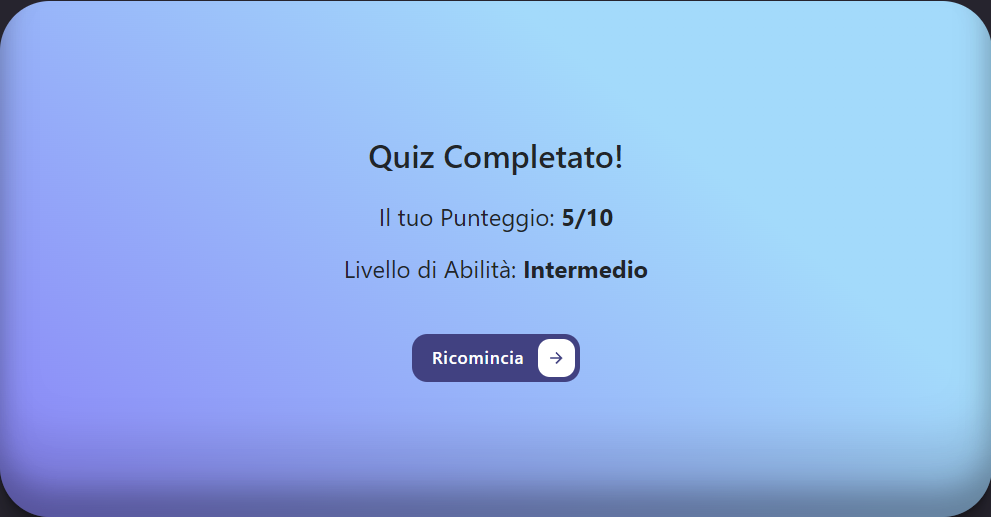
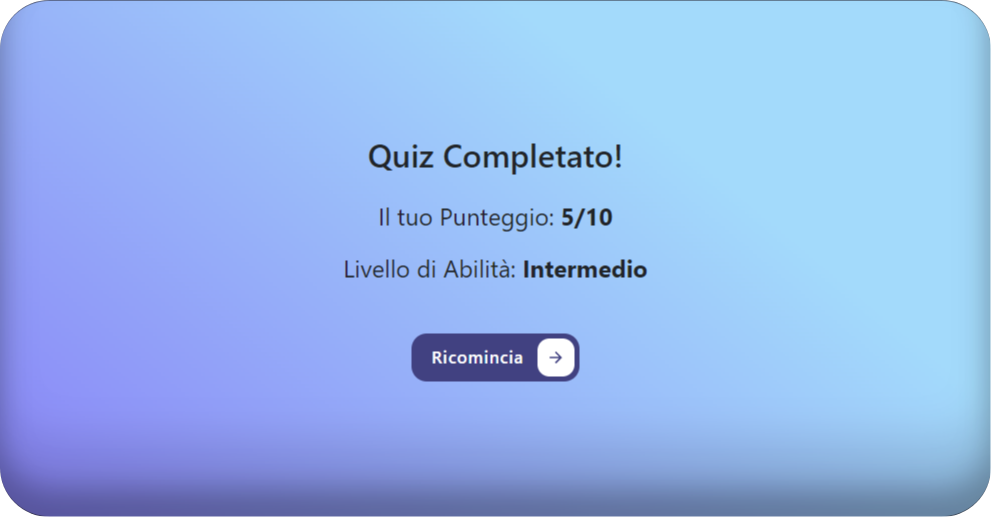
Update README.md image

diff --git a/README.md b/README.md
@@ -8,13 +8,13 @@ Dopo aver completato il quiz, viene fornito un feedback istantaneo sul punteggio
 ### [Presentazione]()
 
 <div align="center">
-  <img width="75%" style="border-radius: 35px; margin-bottom: 10px;" src="./github/image/start-quiz.png">
+  <img width="75%" src="./github/image/start-quiz.png">
 </div>
 <div align="center">
-  <img width="75%" style="border-radius: 35px; margin-bottom: 10px;" src="./github/image/questions-quiz.png">
+  <img width="75%" src="./github/image/questions-quiz.png">
 </div>
 <div align="center">
-  <img width="75%" style="border-radius: 35px; margin-bottom: 10px;" src="./github/image/end-quiz.png">
+  <img width="75%" src="./github/image/end-quiz.png">
 </div>
 
 ## Tecnologie Utilizzate
